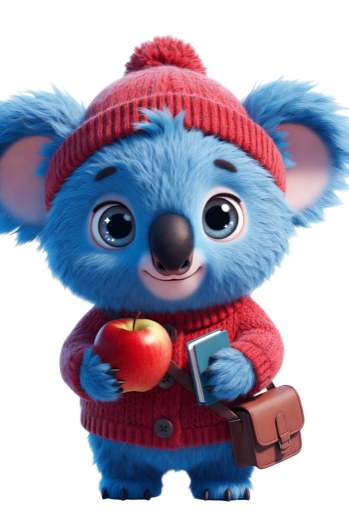
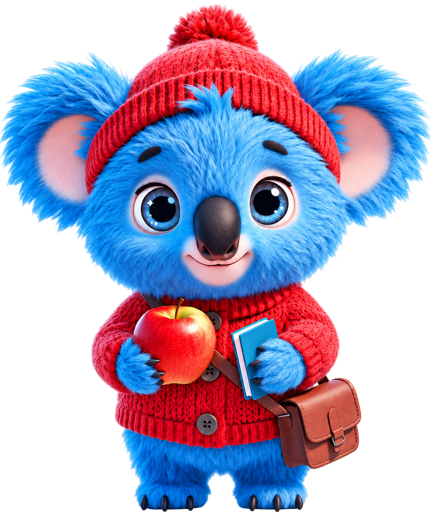
🎁 מסך 'איזה נצחון': הדמות של הילד (לא האריה) עם הבועה עליה, ולא נכנסת על הפרסים/המשך · 🎮 כותרת בחירת משחק: 'חדר 1 מתוך 10' לא נחתך וה-💎 באותה שורה · 🐨 קואלה כחולה חדשה (אוזניים שלמות) · 📏 מדידה על מכשיר: PerfMark לשמירה/סנכרון/שאלה הבאה (DEBUG בלבד)

diff --git a/ChildTime/Views/RewardScreenView.swift b/ChildTime/Views/RewardScreenView.swift
@@ -18,7 +18,7 @@ struct RewardScreenView: View {
     private var titleFont: Font {
         isCompact ? .system(size: 36, weight: .bold, design: .rounded) : .system(size: 56, weight: .bold, design: .rounded)
     }
-    private var companionSize: CGFloat { isCompact ? 64 : 80 }
+    private var companionSize: CGFloat { isCompact ? 70 : 90 }
 
     @State private var stage: ChestStage = .closed
     @State private var taps: Int = 0
@@ -98,14 +98,18 @@ struct RewardScreenView: View {
                     }
                 }
 
-                // Companion in corner — positioned so it never overlaps
-                // the CTA stack.
-                companionCorner
-                    .padding(.bottom, AppSpacing.md)
-                    .padding(.leading, AppSpacing.md)
-                    .frame(maxWidth: .infinity, maxHeight: .infinity,
-                           alignment: .bottomLeading)
-                    .allowsHitTesting(true)
+                // The child's OWN character, the same floating buddy as on the
+                // home and the daily chest — its words ride on it. The corner
+                // lion here was the brand mascot, not the kid's pick, and its
+                // bubble floated off on its own (Rani, Dan's phone).
+                FloatingCompanion(controller: companion,
+                                  profile: ProfileStore.shared.active,
+                                  size: companionSize,
+                                  topInset: 140,
+                                  // Above the reward rows and "הַמְשֵׁךְ" — at 40 it
+                                  // walked onto the button and hid it.
+                                  bottomInset: isCompact ? 310 : 360,
+                                  horizontalInset: AppSpacing.lg)
 
                 // Tap ANYWHERE (not only the small chest) to open while it's
                 // glowing — a child shouldn't have to aim at the chest.
@@ -216,20 +220,6 @@ struct RewardScreenView: View {
         else { Haptic.light() }
         SoundPlayer.shared.play(.uiTap)
         if taps >= tapsToOpen { openChest() }
-    }
-
-    // MARK: - Companion corner
-
-    private var companionCorner: some View {
-        ZStack(alignment: .topLeading) {
-            if let bubble = companion.bubbleText {
-                BubbleSpeech(text: bubble)
-                    .offset(x: companionSize * 0.7, y: -companionSize * 0.2)
-                    .transition(.scale.combined(with: .opacity))
-            }
-            CompanionView(controller: companion, size: companionSize)
-        }
-        .animation(.spring(response: 0.4, dampingFraction: 0.7), value: companion.bubbleText)
     }
 
     // MARK: - Reward items

diff --git a/ChildTime/Components/HitchMonitor.swift b/ChildTime/Components/HitchMonitor.swift
@@ -1,5 +1,6 @@
-#if DEBUG
 import UIKit
+#if DEBUG
+import Combine
 
 /// 📏 DEMO_HITCHES=1 (DEBUG only): logs every frame that took longer than two
 /// display intervals, with the time since the last answer tap — to find what
@@ -9,11 +10,30 @@ final class HitchMonitor: NSObject {
     private var link: CADisplayLink?
     private var last: CFTimeInterval = 0
     var lastTap: CFTimeInterval = 0
+    static let enabled = ProcessInfo.processInfo.environment["DEMO_HITCHES"] != nil
 
     func start() {
         guard link == nil, ProcessInfo.processInfo.environment["DEMO_HITCHES"] != nil else { return }
         link = CADisplayLink(target: self, selector: #selector(tick(_:)))
         link?.add(to: .main, forMode: .common)
+    }
+
+    private var watches: [AnyCancellable] = []
+    /// Logs every objectWillChange of the app-wide stores, against the last tap —
+    /// a store that changes right before a hitch is what re-rendered.
+    @MainActor func watchStores() {
+        guard Self.enabled, watches.isEmpty else { return }
+        func watch<P: Publisher>(_ name: String, _ p: P) where P.Failure == Never {
+            watches.append(p.sink { [weak self] _ in
+                let tap = self?.lastTap ?? 0
+                NSLog("[Mark] willChange %@ at %.0fms after tap", name, tap > 0 ? (CACurrentMediaTime() - tap) * 1000 : -1)
+            })
+        }
+        watch("ProgressStore", ProgressStore.shared.objectWillChange)
+        watch("RemoteSync", RemoteSyncManager.shared.objectWillChange)
+        watch("ProfileStore", ProfileStore.shared.objectWillChange)
+        watch("CosmeticStore", CosmeticStore.shared.objectWillChange)
+        watch("ParentSettings", ParentSettings.shared.objectWillChange)
     }
 
     @objc private func tick(_ l: CADisplayLink) {
@@ -27,3 +47,23 @@ final class HitchMonitor: NSObject {
     }
 }
 #endif
+
+/// 📏 Times a block and logs it against the last answer tap when DEMO_HITCHES
+/// is on — so a hitch on the device can be pinned to the work that caused it
+/// (the profiler can't attach there). A plain call-through in Release.
+enum PerfMark {
+    @inline(__always)
+    static func run<T>(_ label: StaticString, _ body: () throws -> T) rethrows -> T {
+        #if DEBUG
+        guard HitchMonitor.enabled else { return try body() }
+        let t0 = CACurrentMediaTime()
+        let result = try body()
+        let t1 = CACurrentMediaTime()
+        let tap = HitchMonitor.shared.lastTap
+        NSLog("[Mark] %@ %.1fms, at %.0fms after tap", "\(label)", (t1 - t0) * 1000, tap > 0 ? (t0 - tap) * 1000 : -1)
+        return result
+        #else
+        return try body()
+        #endif
+    }
+}

diff --git a/ChildTime/Views/WorldGameChooserView.swift b/ChildTime/Views/WorldGameChooserView.swift
@@ -109,6 +109,10 @@ struct WorldGameChooserView: View {
             }
             withAnimation(.spring(response: 0.6, dampingFraction: 0.7)) { appeared = true }
             // 🏆 First time in this world: the 💎 nudge for trying something new.
+            #if DEBUG
+            // DEMO_FIRSTVISIT=1: show the first-visit chip without spending a visit.
+            if ProcessInfo.processInfo.environment["DEMO_FIRSTVISIT"] != nil { firstVisitPaid = 20 }
+            #endif
             if !inertPreview, !world.isBonusWorld {
                 let paid = progress.markVisited(world.id)
                 if paid > 0 {
@@ -190,11 +194,15 @@ struct WorldGameChooserView: View {
                             .font(.system(size: isCompact ? 13 : 15, weight: .heavy, design: .rounded))
                             .foregroundStyle(AppColor.diamondBlue)
                             .padding(.horizontal, 10).padding(.vertical, 4)
+                            .lineLimit(1).minimumScaleFactor(0.75)
                             .background(RoundedRectangle(cornerRadius: 16, style: .continuous).fill(.white.opacity(0.9)))
                             .transition(.scale.combined(with: .opacity))
                     }
                 }
-                Spacer(minLength: 0)
+                // The column takes the whole row. With a Spacer beside it the
+                // two split the space and the column shrank to the 150pt room
+                // bar — "חֶדֶר 1 מִתּוֹךְ…" cut off and the 💎 wrapped (Rani).
+                .frame(maxWidth: .infinity, alignment: .leading)
             }
 
             HStack(spacing: 10) {
@@ -251,6 +259,7 @@ struct WorldGameChooserView: View {
             Text(roomLine)
                 .font(.system(size: isCompact ? 13 : 15, weight: .semibold, design: .rounded))
                 .foregroundStyle(GlassInk.secondary)
+                .fixedSize(horizontal: false, vertical: true)
         }
     }
 

diff --git a/ChildTime/Views/ParentDashboardView.swift b/ChildTime/Views/ParentDashboardView.swift
@@ -581,13 +581,7 @@ struct ParentDashboardView: View {
             }
             // Push a full child page when a grid card is tapped (path-based so a
             // delete inside the page can pop back to the grid on its own).
-            .onAppear {
-                if demoOpenFirstChild, navPath.isEmpty, let first = rows.first?.profile.id {
-                    // selectChild: open, the child fills the revealed half — a push
-                    // there drew the same page in BOTH halves.
-                    DispatchQueue.main.asyncAfter(deadline: .now() + 0.6) { selectChild(first) }
-                }
-            }
+            .onAppear(perform: openFirstChildForDemo)
             .navigationDestination(for: UUID.self) { id in
                 childDetailScreen(for: id)
             }
@@ -2458,6 +2452,17 @@ struct ParentDashboardView: View {
         .background(Color.white.opacity(0.22), in: RoundedRectangle(cornerRadius: 16, style: .continuous))
         .overlay(RoundedRectangle(cornerRadius: 16, style: .continuous).strokeBorder(.white.opacity(0.30), lineWidth: 1))
         .contentShape(RoundedRectangle(cornerRadius: 16, style: .continuous))
+    }
+
+    /// DEMO: open the first child. A method, not an inline closure — inline it
+    /// tipped the dashboard's long modifier chain past the type-checker's time
+    /// limit on a busy machine.
+    private func openFirstChildForDemo() {
+        if demoOpenFirstChild, navPath.isEmpty, let first = rows.first?.profile.id {
+            // selectChild: open, the child fills the revealed half — a push
+            // there drew the same page in BOTH halves.
+            DispatchQueue.main.asyncAfter(deadline: .now() + 0.6) { selectChild(first) }
+        }
     }
 
     /// "⚙ הגדרות של X ›" — the one door to everything that is SET about the

diff --git a/ChildTime/Views/QuestionRunnerView.swift b/ChildTime/Views/QuestionRunnerView.swift
@@ -1338,6 +1338,7 @@ struct QuestionRunnerView: View {
         #if DEBUG
         // 📏 DEMO_AUTOTAP: answer each question correctly after 2.5s, to time the tap path.
         HitchMonitor.shared.start()
+        HitchMonitor.shared.watchStores()
         if ProcessInfo.processInfo.environment["DEMO_WAND"] != nil {   // two misses + the buddy talking
             consecutiveWrong = 2
             DispatchQueue.main.asyncAfter(deadline: .now() + 1) { companion.cheer(ProcessInfo.processInfo.environment["DEMO_BUBBLE"] ?? tr("אַלּוּפָה!")) }
@@ -1486,7 +1487,7 @@ struct QuestionRunnerView: View {
             Haptic.success()
             burstTrigger += 1
             let answeredAt = Date()
-            afterFeedbackSettles { handleCorrect(q: q, answeredAt: answeredAt) }
+            afterFeedbackSettles { PerfMark.run("handleCorrect") { handleCorrect(q: q, answeredAt: answeredAt) } }
             // If the child stumbled on this one, queue it to re-ask later — the
             // only question that's allowed to repeat in a session.
             if hadMistakeThisQuestion, !reAskQueue.contains(where: { $0.question.prompt == q.prompt }) {
@@ -1494,7 +1495,7 @@ struct QuestionRunnerView: View {
             }
             DispatchQueue.main.asyncAfter(deadline: .now() + 1.5) {
                 questionIndex += 1
-                nextQuestion()
+                PerfMark.run("nextQuestion") { nextQuestion() }
             }
         } else if isBonusQuestion {
             // 💫 Bonus: the rare event is its own challenge — flash the pick red,

diff --git a/ChildTime/Models/RemoteSyncManager.swift b/ChildTime/Models/RemoteSyncManager.swift
@@ -791,7 +791,7 @@ final class RemoteSyncManager: ObservableObject {
         // value with a lower local one (this is how a restored 4100★ could drop
         // back to a device's local 153★). Ratchet-merging with the cloud means an
         // upload can only ever raise accumulators, never lower them.
-        let local = ProgressStore.shared.captureSnapshot()
+        let local = PerfMark.run("sync.capture") { ProgressStore.shared.captureSnapshot() }
         let editSeqAtCapture = ProgressStore.shared.localEditSeq
         let ref = db.collection("children").document(pid.uuidString)
             .collection("state").document("current")
@@ -928,8 +928,10 @@ final class RemoteSyncManager: ObservableObject {
                 .addSnapshotListener { [weak self] doc, err in
                     if let err { self?.listenerFailed(id, err); return }
                     guard let self, let doc, let raw = doc.data() else { return }
-                    guard let snap = Self.decode(raw) else { return }
-                    self.handleRemoteSnapshot(snap, profileID: profile.id)
+                    PerfMark.run("sync.remoteSnapshot") {
+                        guard let snap = Self.decode(raw) else { return }
+                        self.handleRemoteSnapshot(snap, profileID: profile.id)
+                    }
                 }
             listeners[id] = listener
 

diff --git a/ChildTime/ChildTimeApp.swift b/ChildTime/ChildTimeApp.swift
@@ -463,6 +463,13 @@ struct ChildTimeApp: App {
         case "surpriseround":                               // DEMO_SCREEN=surpriseround [DEMO_WORLD=soccer] [DEMO_GAME=balloon] — ⚡ the interstitial → the game
             MiniGameDemoHost(screen: name)
         case "wheel":    LuckyWheelView(onClose: {})
+        // 🎁 "אֵיזֶה נִצָּחוֹן!" — the chest after a session (test profile only).
+        case "reward":
+            RewardScreenView(kind: .gold, correctInSession: 10, world: Worlds.all[0],
+                             startedLevel: ProgressStore.shared.companionLevel, onDismiss: {})
+                .environmentObject(ParentSettings.shared)
+                .environmentObject(ProgressStore.shared)
+                .environmentObject(ShieldManager.shared)
         case "dashboard": ParentDashboardView(isRoot: true)
         // DEMO_SCREEN=childreport [DEMO_REPORT_PERIOD=week] [DEMO_REPORT_SCROLL=topics|worlds]
         case "childreport": ParentDashboardView(isRoot: true, demoOpenFirstChild: true)

diff --git a/ChildTime/Models/ProgressVault.swift b/ChildTime/Models/ProgressVault.swift
@@ -209,7 +209,7 @@ final class ProgressVault {
             try? await Task.sleep(nanoseconds: 3_000_000_000)
             guard let self, !Task.isCancelled else { return }
             guard let pid = self.boundProfileID else { return }
-            self.write(ProgressStore.shared.captureSnapshot(), for: pid)
+            PerfMark.run("vault.save") { self.write(ProgressStore.shared.captureSnapshot(), for: pid) }
         }
     }
 }
